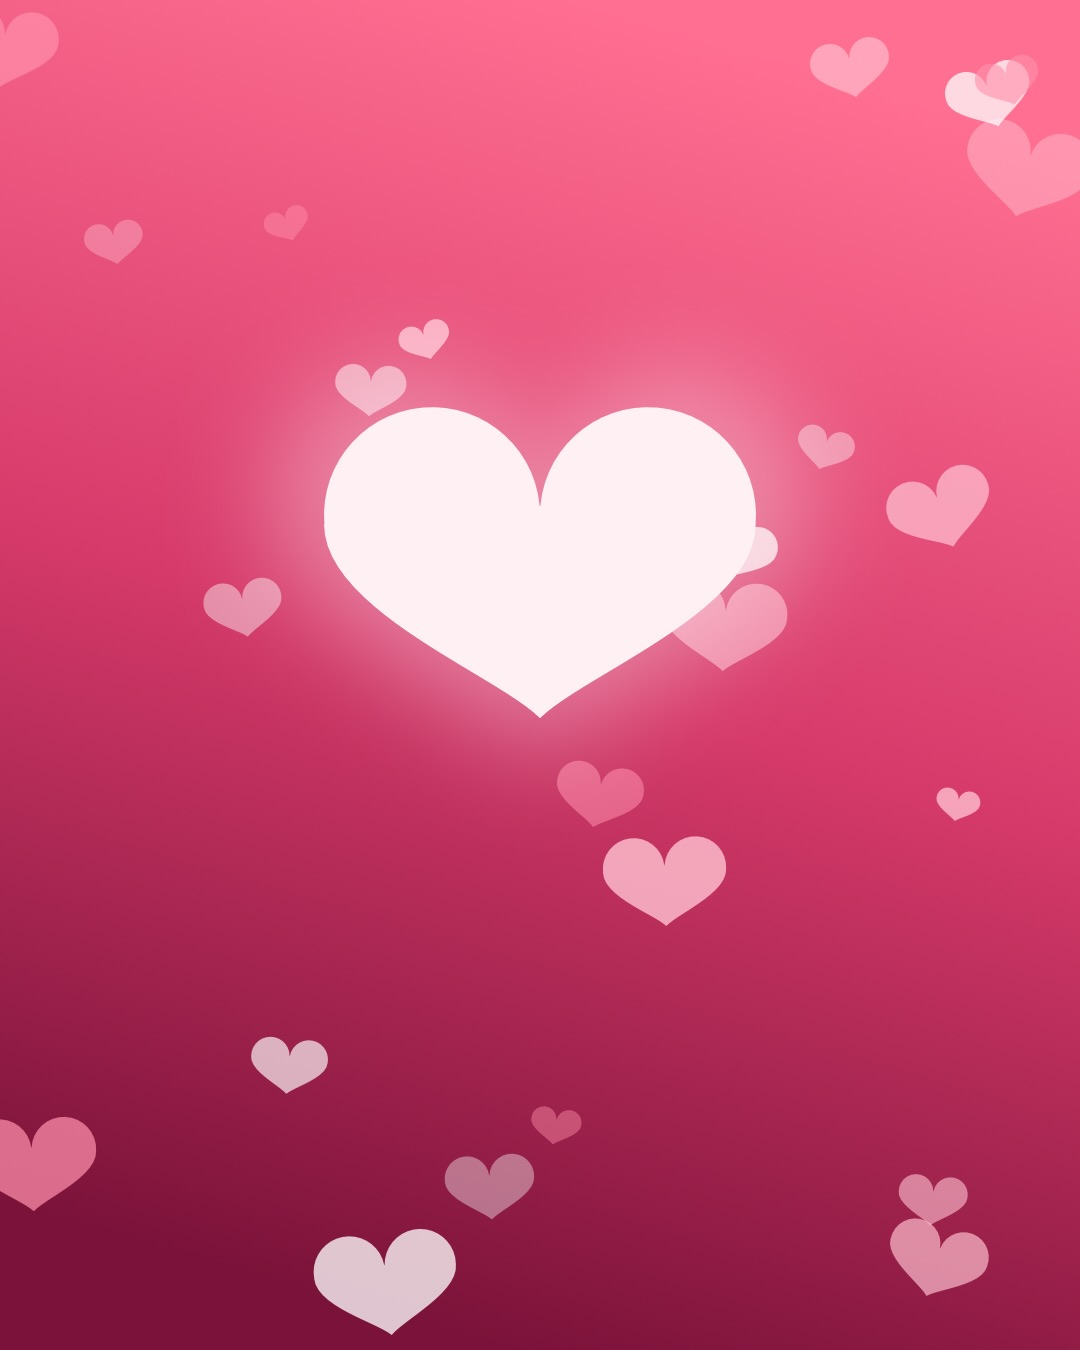
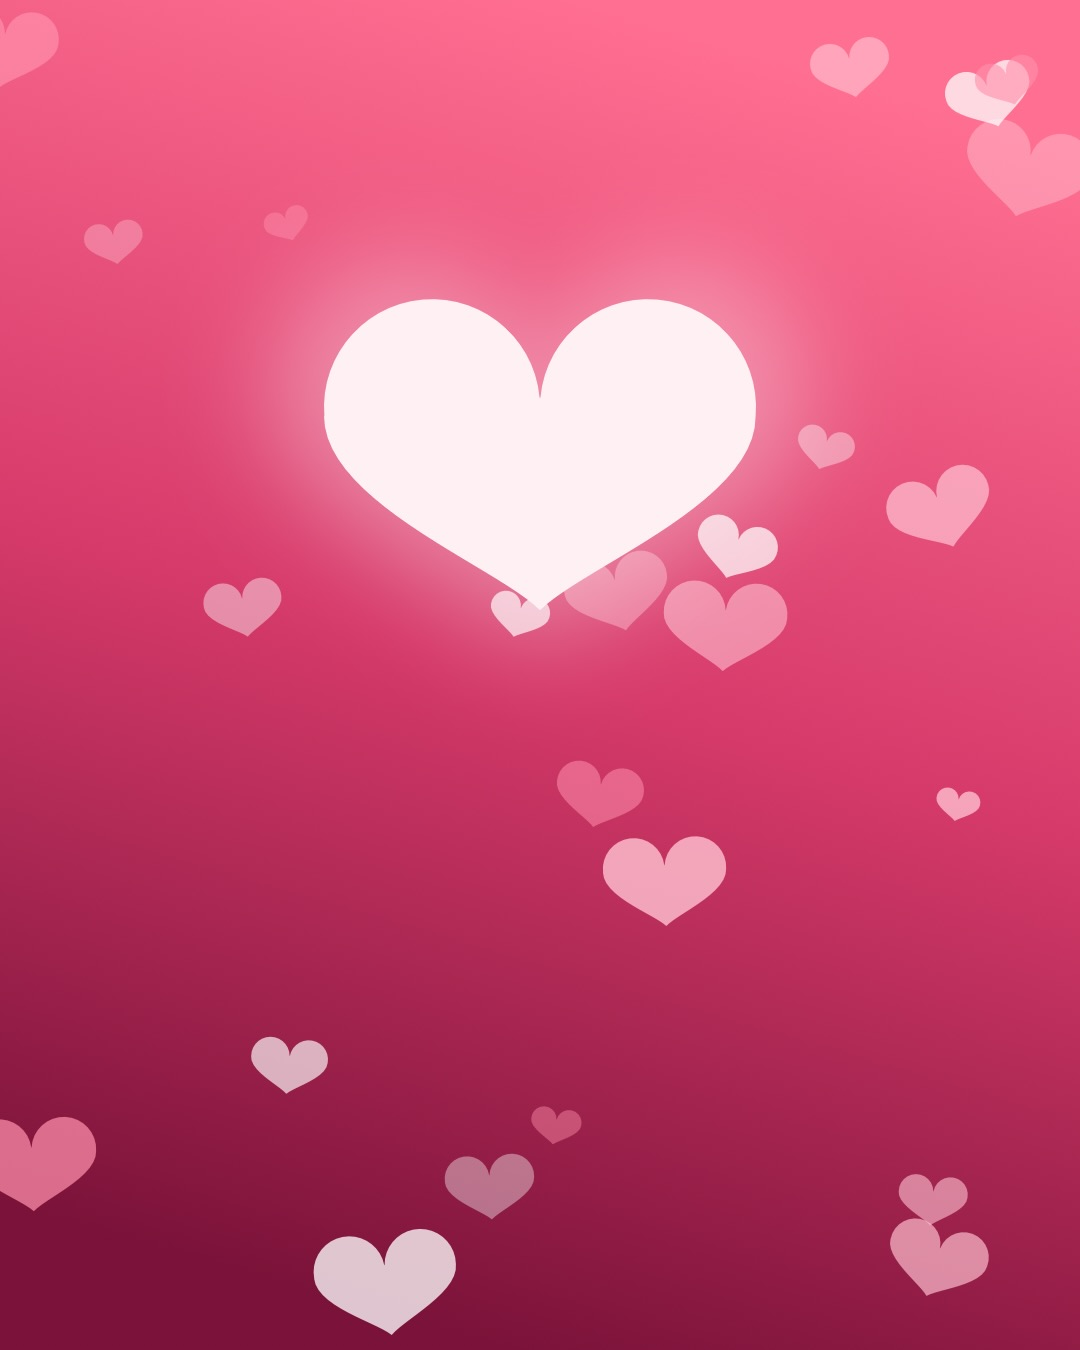
App Store screenshots for the crypt, date pools and new scenes
Six iPhone shots (list, detail, date pool, the Crypt, appearance, count-up)
and three iPad shots, retaken from the demo data, which now has a baby
date pool and the birthday scene. The listing copy covers sharing, the
Crypt and date pools. Occasion scenes lead the picker, their main shapes
sit higher so titles don't cover them, and pool guesses are removed with
a long press instead of a button on every row.

Changed region(s): [[0.2444, 0.1867, 0.7333, 0.56]]

diff --git a/Sources/Shared/Scenes.swift b/Sources/Shared/Scenes.swift
@@ -3,9 +3,10 @@ import SwiftUI
 /// Built-in backgrounds, drawn in code so they cost nothing to ship, stay sharp at any size and
 /// look the same in the app, widgets and on the watch. Random details use fixed seeds.
 enum SceneID: String, Codable, CaseIterable, Identifiable {
+    // Occasions first, so the picker leads with them. Added October 2026: builds before then keep
+    // these styles but show the default backdrop.
+    case wedding, birthday, baby, graduation, hearts, fireworks, airplane, beach, stadium, campfire
     case midnight, starfield, aurora, sunset, mountains, ocean, snowfall, blossoms, city, confetti, balloons, harvestMoon
-    // Occasions, added October 2026. Builds before then keep these styles but show the default backdrop.
-    case wedding, airplane, beach, birthday, graduation, baby, hearts, fireworks, stadium, campfire
 
     var id: String { rawValue }
 
@@ -257,7 +258,7 @@ struct SceneArt: View {
                            with: .color(Color(hex: rng.next() > 0.5 ? 0xFFFFFF : 0xF4A7B9).opacity(0.6)))
             }
             let u = unit(rect)
-            let center = CGPoint(x: rect.midX, y: rect.height * 0.42)
+            let center = CGPoint(x: rect.midX, y: rect.height * 0.36)
             var glow = context
             glow.addFilter(.blur(radius: u * 0.06))
             glow.fill(circle(center, u * 0.26), with: .color(.white.opacity(0.7)))
@@ -342,7 +343,7 @@ struct SceneArt: View {
                 piece.fill(Path(roundedRect: CGRect(x: -w, y: -w * 0.3, width: w * 2, height: w * 0.6), cornerRadius: w * 0.3),
                            with: .color(Color(hex: palette[Int(rng.next() * 5) % 5]).opacity(0.85)))
             }
-            cake(&context, center: CGPoint(x: rect.midX, y: rect.height * 0.62), unit: unit(rect))
+            cake(&context, center: CGPoint(x: rect.midX, y: rect.height * 0.3), unit: unit(rect) * 0.8)
 
         case .graduation:
             sky(&context, rect, [0x0E1A3D, 0x1F3A75, 0x3E64A8], angle: 90)
@@ -391,7 +392,7 @@ struct SceneArt: View {
                                                         .opacity(0.35 + rng.next() * 0.5)))
             }
             var big = context
-            big.translateBy(x: rect.midX, y: rect.height * 0.42)
+            big.translateBy(x: rect.midX, y: rect.height * 0.34)
             var glow = big
             glow.addFilter(.blur(radius: unit(rect) * 0.05))
             glow.fill(heart(size: unit(rect) * 0.5), with: .color(.white.opacity(0.35)))

diff --git a/Sources/CountdownulaiOS/PhoneStore.swift b/Sources/CountdownulaiOS/PhoneStore.swift
@@ -234,7 +234,7 @@ final class PhoneStore {
             Countdown(title: "Conference Talk", details: "Nailed it.",
                       targetDate: now - 3 * day, createdAt: now - 60 * day, hasNotified: true),
         ]
-        samples[2].style = CountdownStyle(background: .scene(.balloons), font: .serif, weight: .heavy,
+        samples[2].style = CountdownStyle(background: .scene(.birthday), font: .serif, weight: .heavy,
                                           textColor: RGBAColor(hex: 0x1C1C1E), accent: RGBAColor(hex: 0xFF5D73))
         samples[3].style = CountdownStyle(background: .gradient(GradientSpec.presets[4].spec), font: .expanded,
                                           accent: RGBAColor(hex: 0xFFD166))
@@ -258,6 +258,13 @@ final class PhoneStore {
                                  targetDate: now - 4_652 * day, kind: .countUp, createdAt: now)
         together.style = CountdownStyle(background: .scene(.blossoms), font: .serif, accent: RGBAColor(hex: 0xD6336C))
         samples.append(together)
+        // A date pool: friends guess when the baby arrives.
+        var baby = Countdown(title: "Baby Chen Arrives", details: "Due date is the 30th. Place your guesses!",
+                             targetDate: now + 52 * day + 4 * 3_600, createdAt: now - 180 * day)
+        baby.style = CountdownStyle(background: .scene(.baby), font: .rounded, textColor: RGBAColor(hex: 0x3A3A5C),
+                                    accent: RGBAColor(hex: 0xE57CA2))
+        baby.extras.pool = DatePool()
+        samples.append(baby)
         samples.forEach { repository.upsert($0) }
     }
     #endif

diff --git a/Sources/CountdownulaiOS/PoolViews.swift b/Sources/CountdownulaiOS/PoolViews.swift
@@ -68,17 +68,18 @@ struct PoolSection: View {
                         Text(DatePool.offBy(off))
                             .font(.caption)
                             .foregroundStyle(.secondary)
-                    } else if state?.isOwner == true || guess.mine {
-                        Button(role: .destructive) {
-                            Task { await remove(guess, access) }
-                        } label: {
-                            Image(systemName: "xmark.circle")
-                        }
-                        .buttonStyle(.borderless)
-                        .accessibilityLabel(guess.mine ? "Take back your guess" : "Remove \(guess.name)'s guess")
                     }
                 }
                 .padding(.vertical, 2)
+                .contentShape(Rectangle())
+                // Removing is a long press, so the list stays a clean leaderboard.
+                .contextMenu {
+                    if answer == nil, state?.isOwner == true || guess.mine {
+                        Button(guess.mine ? "Take Back My Guess" : "Remove Guess", systemImage: "trash", role: .destructive) {
+                            Task { await remove(guess, access) }
+                        }
+                    }
+                }
             }
 
             if !closed {

diff --git a/docs/app-store-listing.md b/docs/app-store-listing.md
@@ -14,6 +14,8 @@ Countdowns, count-ups & timers
 
 Can be changed any time without a new build, so use it for what's timely.
 
+> Count down together: share a live link, let friends guess the date, or join a countdown from the Crypt. Photo widgets, Live Activities and an Apple Watch app.
+
 > Count down to the trip, the wedding, the birthday. Count up from the day you quit. Photo widgets, Live Activities and an Apple Watch app that keep it in view.
 
 October variant (Halloween):
@@ -37,7 +39,7 @@ Count Downcula counts down to the things worth waiting for: the trip, the launch
 
 COUNTDOWNS THAT LOOK THE PART
 • Add a title, a note and a date, or start a quick timer in one tap
-• Put your own photo behind it, or pick one of 12 built-in scenes, a gradient or a color
+• Put your own photo behind it, or pick one of 22 built-in scenes (wedding, birthday, baby, game day and more), a gradient or a color
 • Choose the font and colors for each countdown
 • Watch the days, hours, minutes and seconds tick away in a full-screen view
 
@@ -47,6 +49,14 @@ Track the time since something began: getting sober, quitting smoking, meeting s
 • Milestones at 24 hours, 1 week, 30, 60 and 90 days, 6 months and every year
 • See the money you've saved, per day you've kept going
 • Reset gently: your history and your best run are kept
+
+COUNT DOWN TOGETHER
+Share a live link and everyone counts down to the same moment, from the app or any browser.
+• Friends join with one tap and get it on their own widgets and Lock Screen
+• Edits reach everyone, and the whole group hits zero together
+• Seal notes and photos in the coffin: nobody sees them until zero
+• Date pools: not sure when it'll happen? Friends guess, and the closest guess wins bragging rights
+• Browse the Crypt for countdowns worth sharing: holidays, eclipses, meteor showers and big games, each ticking to your own local time
 
 MILESTONES ALONG THE WAY
 Mark the moments in between, like "Halfway there" or "1 week to go." Each one gets its own notification and a burst of confetti when it arrives.
@@ -69,7 +79,7 @@ AND THE REST
 • Works on iPhone, iPad and Apple Watch
 
 PRIVATE BY DESIGN
-Count Downcula collects no data. There are no accounts, ads or trackers. Your countdowns and photos sync between your devices through your own private iCloud storage, which only your Apple Account can read.
+There are no accounts, ads or trackers. Your countdowns and photos sync between your devices through your own private iCloud storage, which only your Apple Account can read. Nothing leaves it unless you share a live link, and you can stop sharing at any time.
 
 Free for up to 3 countdowns at a time. Count Downcula Unlimited removes the limit with a one-time purchase: no subscription, no ads.
 ```

diff --git a/design/app-store/README.md b/design/app-store/README.md
@@ -4,9 +4,9 @@ Upload these on the app's version page in App Store Connect, under **Previews an
 
 | Folder | Device slot | Size | Screens |
 |---|---|---|---|
-| `iphone-6.3/` | iPhone with Dynamic Island (medium display) | 1206 × 2622 | List, countdown detail, count-up, appearance editor |
-| `iphone/` | iPhone 6.9" (if App Store Connect asks for it) | 1320 × 2868 | The same four, at full size |
-| `ipad/` | iPad 13" Display | 2064 × 2752 | List, countdown detail |
+| `iphone-6.3/` | iPhone with Dynamic Island (medium display) | 1206 × 2622 | List, countdown detail, date pool, the Crypt, appearance editor (occasion scenes), count-up |
+| `iphone/` | iPhone 6.9" (if App Store Connect asks for it) | 1320 × 2868 | The same six, at full size |
+| `ipad/` | iPad 13" Display | 2064 × 2752 | List, countdown detail, the Crypt |
 | `watch/` | Apple Watch | 416 × 496 | Watch face with complications, list, detail |
 | `iap-review-paywall.png` | In-app purchase → Review Information → Screenshot | 1206 × 2622 | The Count Downcula Unlimited paywall (for Apple's reviewer only) |
 
@@ -19,6 +19,8 @@ The iPhone and iPad shots come from the iOS Simulator with the debug demo data:
 1. Build the `CountdownulaiOS` scheme (Debug) for an iPhone 17 Pro Max or iPad Pro 13-inch simulator.
 2. `xcrun simctl status_bar booted override --time 9:41 --dataNetwork wifi --wifiBars 3 --cellularBars 4 --batteryState charged --batteryLevel 100`
 3. Launch with `-seedDemo -localOnly`, then `xcrun simctl io booted screenshot <file>.png`.
+
+The date pool and the Crypt need a server. Run one locally (`server/`, `npx next dev --port 4319` against a local MongoDB), seed the Crypt with `scripts/seed-crypt.mjs`, and add `-linkServer http://localhost:4319` to the launch arguments. The demo's "Baby Chen Arrives" has a date pool: share its live link from the detail screen, add a few guesses with `POST /api/countdowns/<slug>/pool/guesses`, then guess from the app so one row reads "(you)".
 
 To open a specific countdown, use its link: `xcrun simctl openurl booted countdownula://countdown/<uuid>`. The UUIDs are in `ZCOUNTDOWNRECORD` in the app's `Library/Application Support/Countdownula.store`.
 
